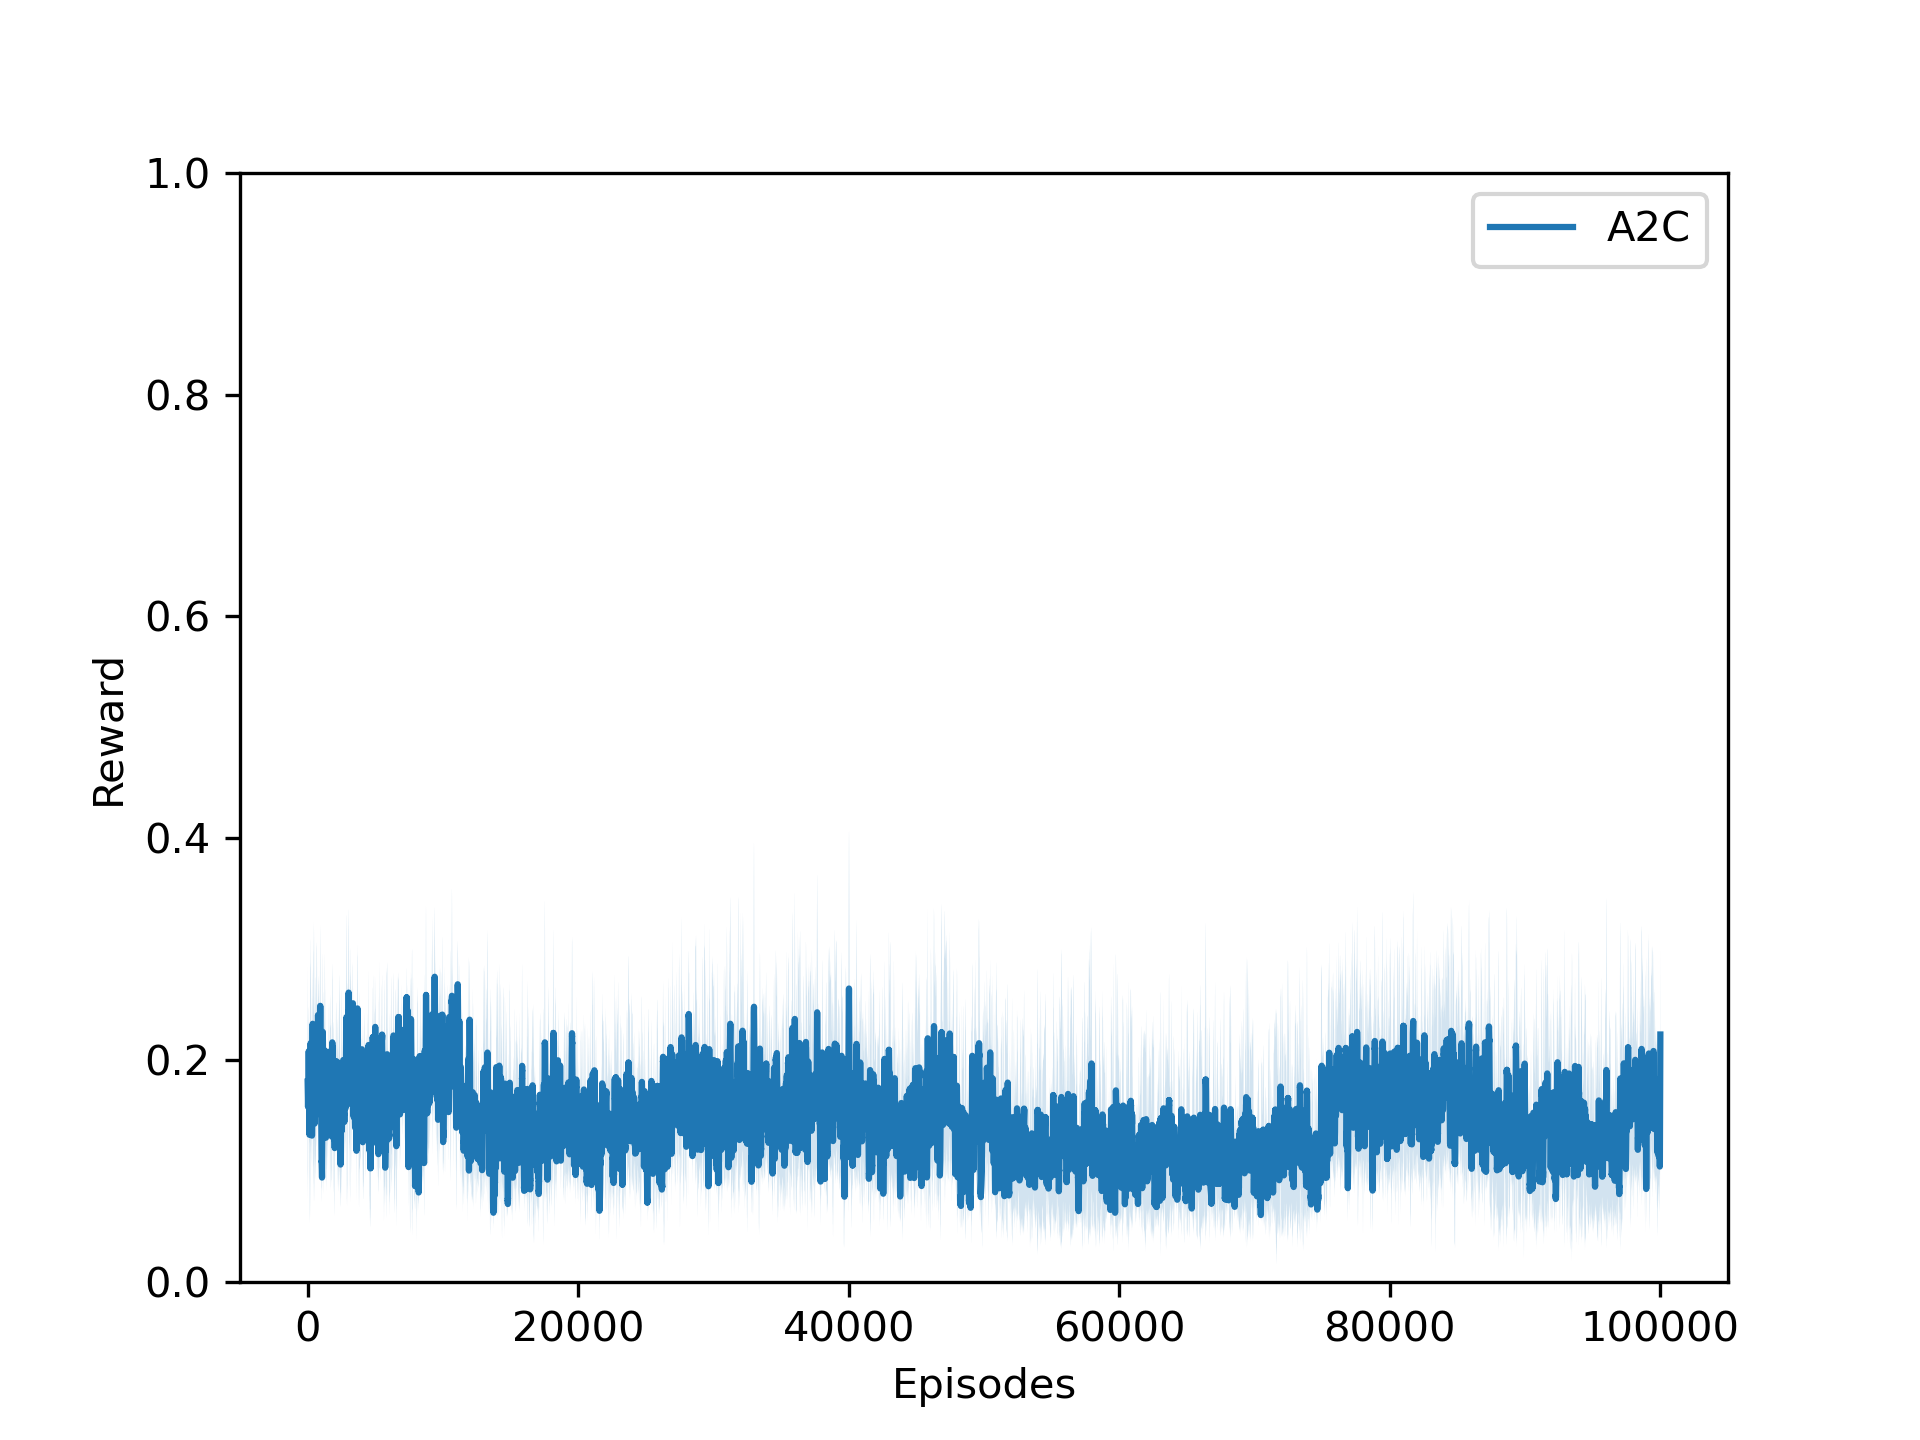
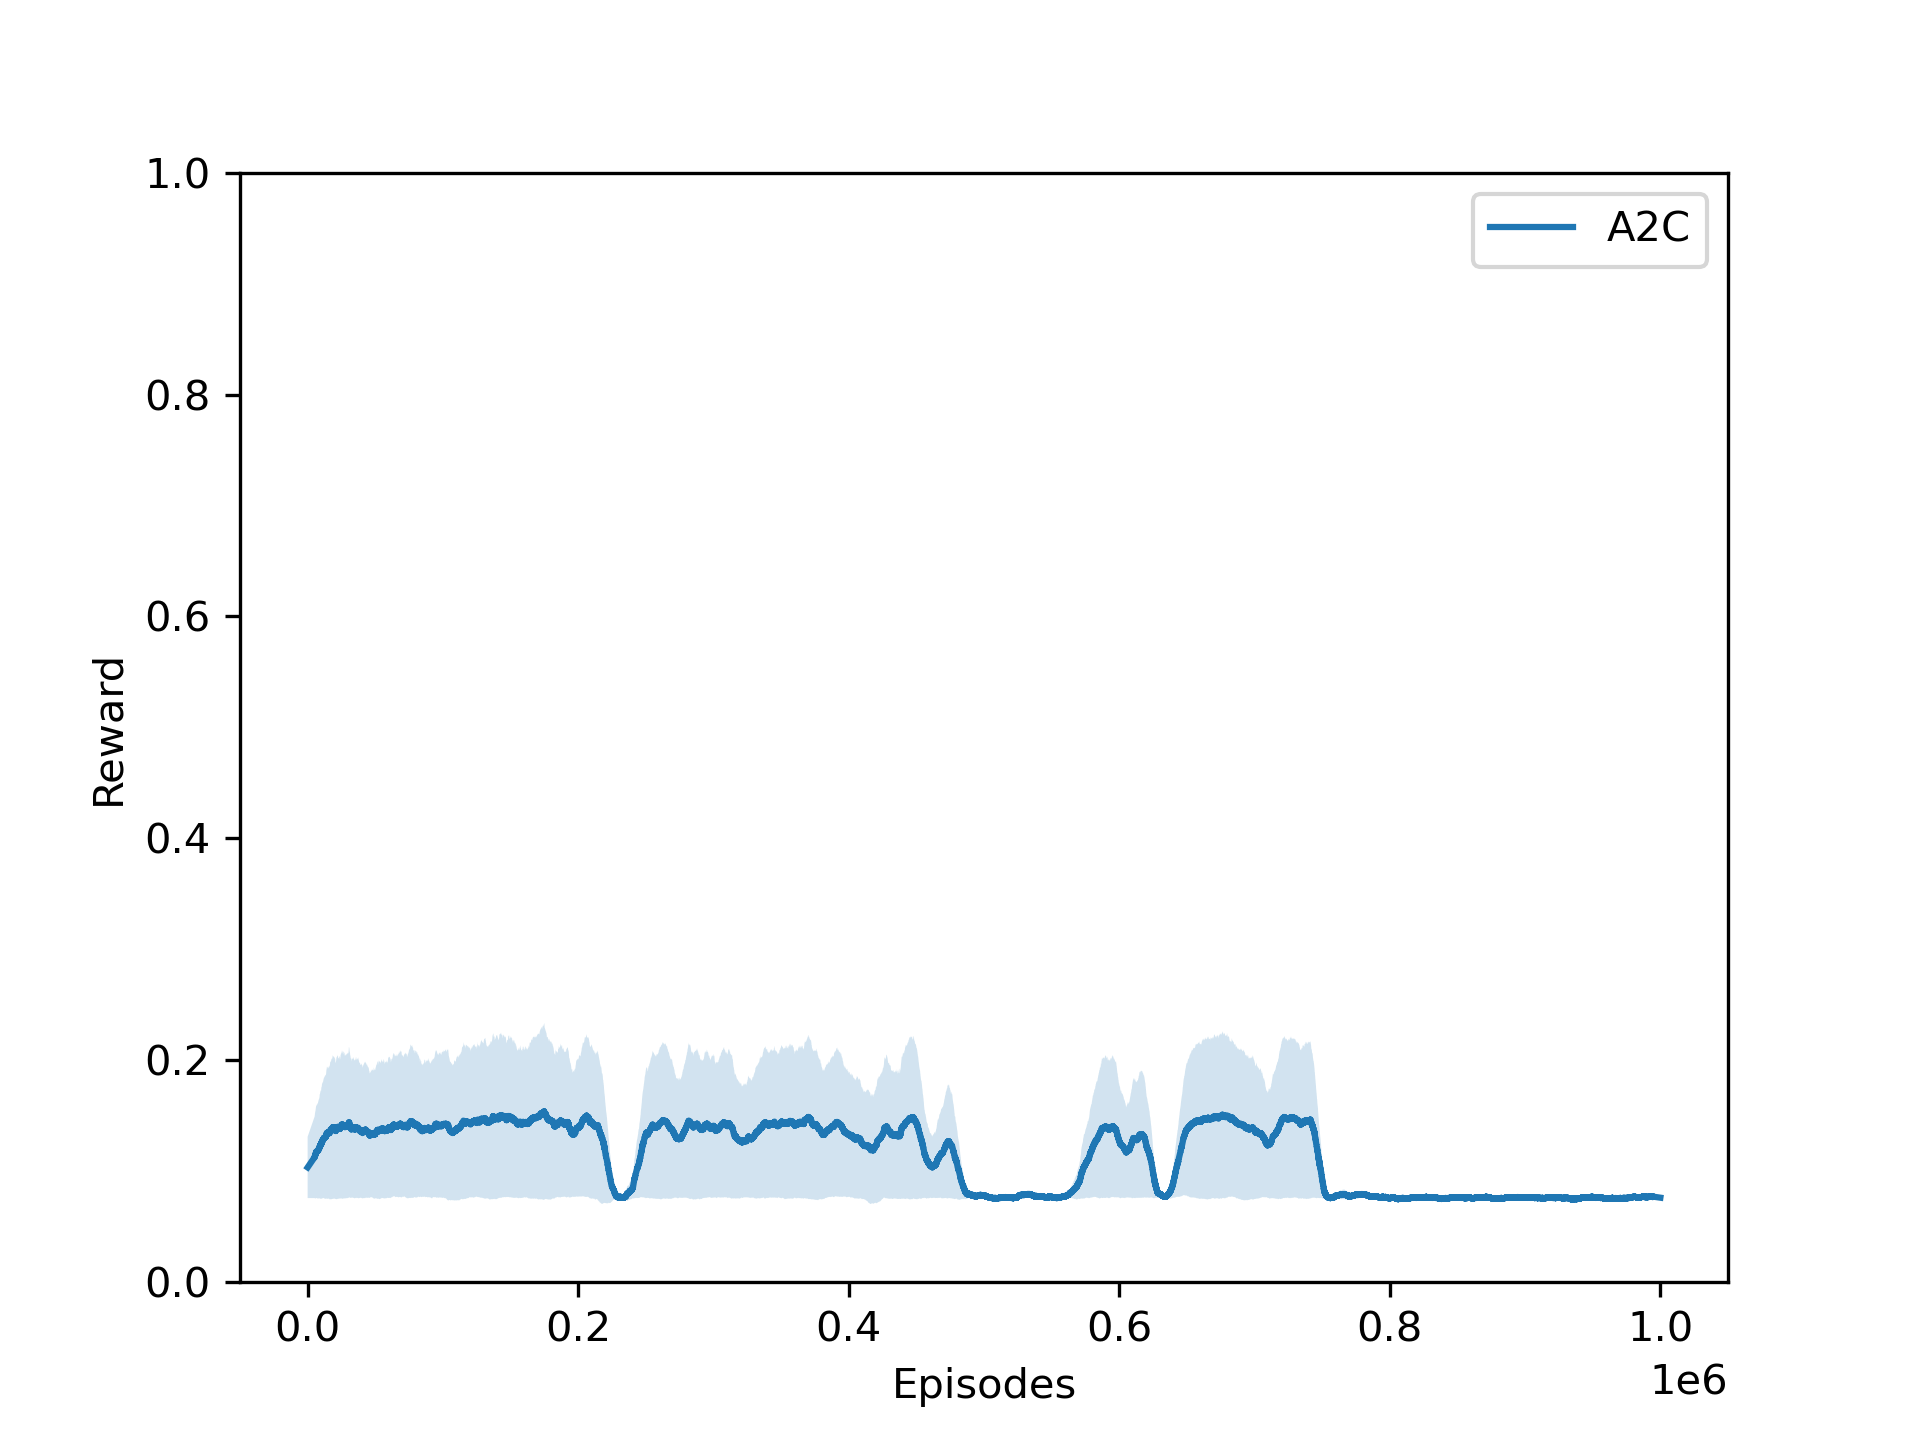
new a2c experiment

diff --git a/A2C-experiment.py b/A2C-experiment.py
@@ -50,7 +50,7 @@ model = A2C("MlpPolicy", env, verbose=1)
 callback = RewardCallback()
 
 # Create an experiment
-n_timesteps = 100000
+n_timesteps = 1000000
 n_runs = 3
 
 plot = LearningCurvePlot()
@@ -64,7 +64,7 @@ for run in range(n_runs):
     rewards = callback.rewards
     rewards_flat = [item for sublist in rewards for item in sublist]
     np.save(f'experiments/a2c_run_{run}.npy', rewards_flat)
-    results.append(smooth(rewards_flat, 51))
+    results.append(smooth(rewards_flat, 1001))
     # Reset the callback
     callback.reset()
     print(np.shape(results))
